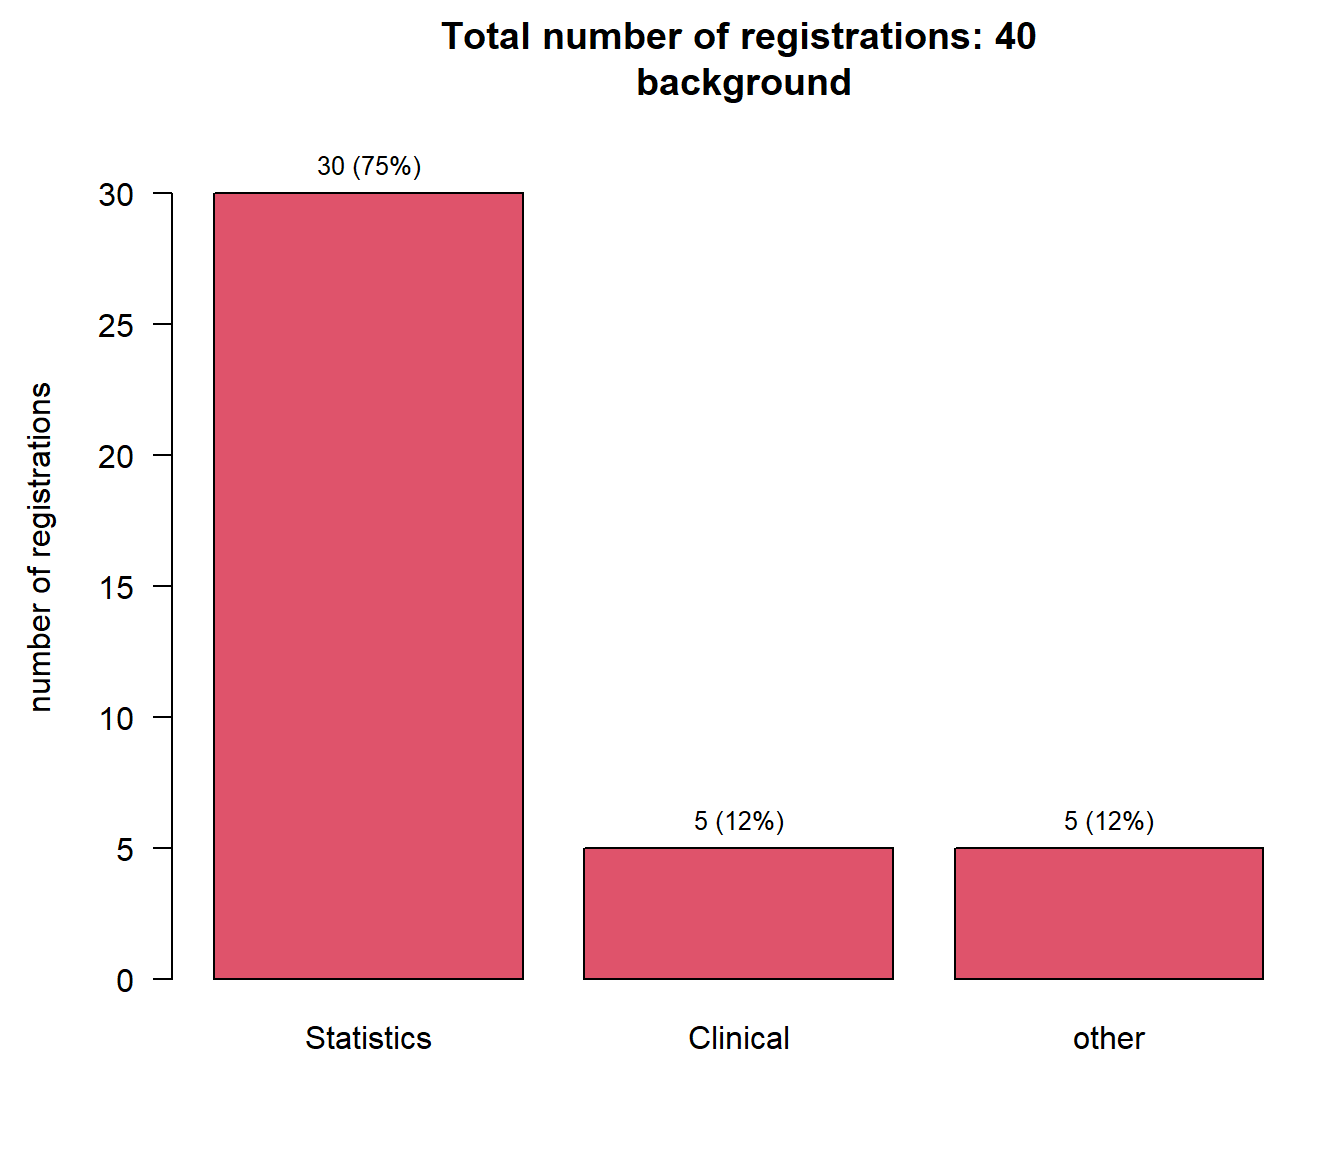
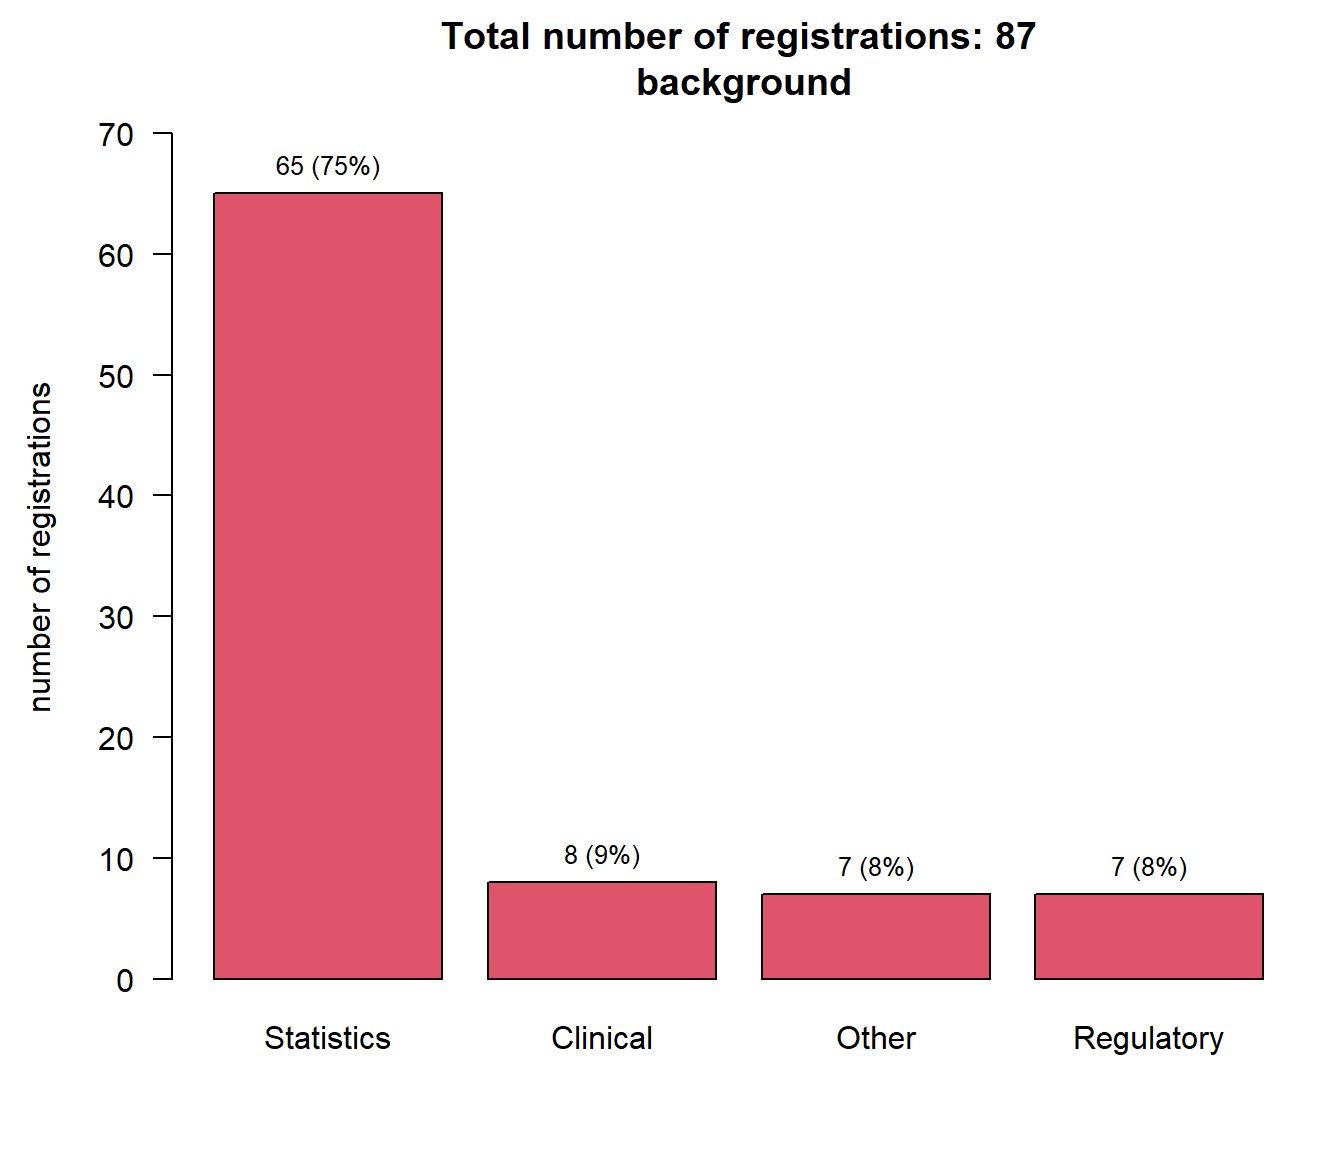
update

diff --git a/docs/data/2026/analysis2026.html b/docs/data/2026/analysis2026.html
@@ -230,7 +230,7 @@ ul.task-list li input[type="checkbox"] {
 
 <section id="data-status" class="level1">
 <h1>Data status</h1>
-<p>Data as of 2026-03-06 at 14:48:24.</p>
+<p>Data as of 2026-03-18 at 14:54:17.</p>
 </section>
 <section id="registrations" class="level1 tabset tabset-fade tabset-pills">
 <h1 class="tabset tabset-fade tabset-pills">Registrations</h1>
@@ -271,16 +271,15 @@ ul.task-list li input[type="checkbox"] {
 </div>
 </div>
 <div id="tabset-1-4" class="tab-pane" role="tabpanel" aria-labelledby="tabset-1-4-tab">
-<!-- ```{r, echo = FALSE, fig.cap = "", fig.align = "center", fig.width = 7, fig.height = 10} -->
-<!-- t2 <- with(reg2, filter(reg2, type %in% "Regulator")) -->
-
-<!-- t2 <- with(t2, table(country2)) -->
-<!-- t2 <- prepTable(t2 = t2, cut = 1) -->
-<!-- par(las = 2, mar = c(21, 4.5, 3, 1)) -->
-<!-- ylim <- c(0, 1.4 * max(t2)) -->
-<!-- xx <- barplot(t2, ylab = "number of registrations", main = paste("Total number of registrations: ", dim(reg2)[1], "\n institution", sep = ""), col = 4, ylim = ylim) -->
-<!-- text(x = xx, y = t2, label = paste(t2, " (", round(100 * t2 / sum(t2)), "%)", sep = ""), pos = 3, offset = 2, cex = 0.8, col = 1, srt = 90) -->
-<!-- ``` -->
+<div class="cell" data-layout-align="center">
+<div class="cell-output-display">
+<div class="quarto-figure quarto-figure-center">
+<figure class="figure">
+<p><img src="analysis2026_files/figure-html/unnamed-chunk-4-1.png" class="img-fluid figure-img" width="672"></p>
+</figure>
+</div>
+</div>
+</div>
 <!-- ```{r, echo = FALSE, eval = TRUE, fig.cap = "", fig.align = "center", fig.width = 7, fig.height = 6} -->
 
 <!-- dat <- with(filter(reg2, type %in% c("HTA", "Regulator")[2]), table(inst2, mode)) -->
@@ -312,7 +311,7 @@ ul.task-list li input[type="checkbox"] {
 <div class="cell-output-display">
 <div class="quarto-figure quarto-figure-center">
 <figure class="figure">
-<p><img src="analysis2026_files/figure-html/unnamed-chunk-4-1.png" class="img-fluid figure-img" width="672"></p>
+<p><img src="analysis2026_files/figure-html/unnamed-chunk-5-1.png" class="img-fluid figure-img" width="672"></p>
 </figure>
 </div>
 </div>
@@ -323,7 +322,7 @@ ul.task-list li input[type="checkbox"] {
 <div class="cell-output-display">
 <div class="quarto-figure quarto-figure-center">
 <figure class="figure">
-<p><img src="analysis2026_files/figure-html/unnamed-chunk-5-1.png" class="img-fluid figure-img" width="1440"></p>
+<p><img src="analysis2026_files/figure-html/unnamed-chunk-6-1.png" class="img-fluid figure-img" width="1440"></p>
 </figure>
 </div>
 </div>
@@ -334,7 +333,7 @@ ul.task-list li input[type="checkbox"] {
 <div class="cell-output-display">
 <div class="quarto-figure quarto-figure-center">
 <figure class="figure">
-<p><img src="analysis2026_files/figure-html/unnamed-chunk-6-1.png" class="img-fluid figure-img" width="672"></p>
+<p><img src="analysis2026_files/figure-html/unnamed-chunk-7-1.png" class="img-fluid figure-img" width="672"></p>
 </figure>
 </div>
 </div>
@@ -345,7 +344,7 @@ ul.task-list li input[type="checkbox"] {
 <div class="cell-output-display">
 <div class="quarto-figure quarto-figure-center">
 <figure class="figure">
-<p><img src="analysis2026_files/figure-html/unnamed-chunk-7-1.png" class="img-fluid figure-img" width="672"></p>
+<p><img src="analysis2026_files/figure-html/unnamed-chunk-8-1.png" class="img-fluid figure-img" width="672"></p>
 </figure>
 </div>
 </div>
@@ -360,7 +359,7 @@ ul.task-list li input[type="checkbox"] {
 <div class="cell-output-display">
 <div class="quarto-figure quarto-figure-center">
 <figure class="figure">
-<p><img src="analysis2026_files/figure-html/unnamed-chunk-8-1.png" class="img-fluid figure-img" width="672"></p>
+<p><img src="analysis2026_files/figure-html/unnamed-chunk-9-1.png" class="img-fluid figure-img" width="672"></p>
 </figure>
 </div>
 </div>
@@ -378,21 +377,53 @@ ul.task-list li input[type="checkbox"] {
 <tbody>
 <tr class="odd">
 <td style="text-align: left;">Company</td>
+<td style="text-align: left;">Roche</td>
 <td style="text-align: left;">Novartis</td>
 </tr>
 <tr class="even">
 <td style="text-align: left;">Pre-booked F2F seats</td>
-<td style="text-align: left;">30</td>
+<td style="text-align: left;">35</td>
+<td style="text-align: left;">35</td>
 </tr>
 </tbody>
 </table>
 </div>
-<!-- ```{r, echo = FALSE, results = 'asis', message = FALSE, eval = TRUE} -->
-<!-- library(arsenal) -->
-
-<!-- tab1 <- tableby(inst2 ~ mode, total = TRUE, test = FALSE, data = filter(reg2, inst2 %in% f2fblock)) -->
-<!-- summary(tab1) -->
-<!-- ``` -->
+<table class="table">
+<colgroup>
+<col style="width: 48%">
+<col style="width: 18%">
+<col style="width: 16%">
+<col style="width: 16%">
+</colgroup>
+<thead>
+<tr class="header">
+<th style="text-align: left;"></th>
+<th style="text-align: center;">Novartis (N=4)</th>
+<th style="text-align: center;">Roche (N=29)</th>
+<th style="text-align: center;">Total (N=33)</th>
+</tr>
+</thead>
+<tbody>
+<tr class="odd">
+<td style="text-align: left;"><strong>mode</strong></td>
+<td style="text-align: center;"></td>
+<td style="text-align: center;"></td>
+<td style="text-align: center;"></td>
+</tr>
+<tr class="even">
+<td style="text-align: left;">&nbsp;&nbsp;&nbsp;Face-to-face (300 Euro)</td>
+<td style="text-align: center;">0 (0.0%)</td>
+<td style="text-align: center;">27 (93.1%)</td>
+<td style="text-align: center;">27 (81.8%)</td>
+</tr>
+<tr class="odd">
+<td style="text-align: left;">&nbsp;&nbsp;&nbsp;Virtual (100 Euro)</td>
+<td style="text-align: center;">4 (100.0%)</td>
+<td style="text-align: center;">2 (6.9%)</td>
+<td style="text-align: center;">6 (18.2%)</td>
+</tr>
+</tbody>
+</table>
 </div>
 <div id="tabset-2-2" class="tab-pane" role="tabpanel" aria-labelledby="tabset-2-2-tab">
 <table class="table">
@@ -405,9 +436,9 @@ ul.task-list li input[type="checkbox"] {
 <thead>
 <tr class="header">
 <th style="text-align: left;"></th>
-<th style="text-align: center;">Bayer (N=1)</th>
-<th style="text-align: center;">Merck KGaA (N=17)</th>
-<th style="text-align: center;">Total (N=18)</th>
+<th style="text-align: center;">Bayer (N=3)</th>
+<th style="text-align: center;">Merck KGaA (N=33)</th>
+<th style="text-align: center;">Total (N=36)</th>
 </tr>
 </thead>
 <tbody>
@@ -419,15 +450,15 @@ ul.task-list li input[type="checkbox"] {
 </tr>
 <tr class="even">
 <td style="text-align: left;">&nbsp;&nbsp;&nbsp;Face-to-face (300 Euro)</td>
-<td style="text-align: center;">1 (100.0%)</td>
-<td style="text-align: center;">1 (5.9%)</td>
-<td style="text-align: center;">2 (11.1%)</td>
+<td style="text-align: center;">3 (100.0%)</td>
+<td style="text-align: center;">1 (3.0%)</td>
+<td style="text-align: center;">4 (11.1%)</td>
 </tr>
 <tr class="odd">
 <td style="text-align: left;">&nbsp;&nbsp;&nbsp;Virtual (100 Euro)</td>
 <td style="text-align: center;">0 (0.0%)</td>
-<td style="text-align: center;">16 (94.1%)</td>
-<td style="text-align: center;">16 (88.9%)</td>
+<td style="text-align: center;">32 (97.0%)</td>
+<td style="text-align: center;">32 (88.9%)</td>
 </tr>
 </tbody>
 </table>
@@ -446,7 +477,7 @@ ul.task-list li input[type="checkbox"] {
 <div class="cell-output-display">
 <div class="quarto-figure quarto-figure-center">
 <figure class="figure">
-<p><img src="analysis2026_files/figure-html/unnamed-chunk-11-1.png" class="img-fluid figure-img" width="672"></p>
+<p><img src="analysis2026_files/figure-html/unnamed-chunk-13-1.png" class="img-fluid figure-img" width="672"></p>
 </figure>
 </div>
 </div>
@@ -457,7 +488,7 @@ ul.task-list li input[type="checkbox"] {
 <div class="cell-output-display">
 <div class="quarto-figure quarto-figure-center">
 <figure class="figure">
-<p><img src="analysis2026_files/figure-html/unnamed-chunk-12-1.png" class="img-fluid figure-img" width="672"></p>
+<p><img src="analysis2026_files/figure-html/unnamed-chunk-14-1.png" class="img-fluid figure-img" width="672"></p>
 </figure>
 </div>
 </div>
@@ -468,7 +499,7 @@ ul.task-list li input[type="checkbox"] {
 <div class="cell-output-display">
 <div class="quarto-figure quarto-figure-center">
 <figure class="figure">
-<p><img src="analysis2026_files/figure-html/unnamed-chunk-13-1.png" class="img-fluid figure-img" width="672"></p>
+<p><img src="analysis2026_files/figure-html/unnamed-chunk-15-1.png" class="img-fluid figure-img" width="672"></p>
 </figure>
 </div>
 </div>
@@ -479,7 +510,7 @@ ul.task-list li input[type="checkbox"] {
 <div class="cell-output-display">
 <div class="quarto-figure quarto-figure-center">
 <figure class="figure">
-<p><img src="analysis2026_files/figure-html/unnamed-chunk-14-1.png" class="img-fluid figure-img" width="672"></p>
+<p><img src="analysis2026_files/figure-html/unnamed-chunk-16-1.png" class="img-fluid figure-img" width="672"></p>
 </figure>
 </div>
 </div>
@@ -498,8 +529,8 @@ ul.task-list li input[type="checkbox"] {
 <thead>
 <tr class="header">
 <th style="text-align: left;"></th>
-<th style="text-align: center;">Roche (N=17)</th>
-<th style="text-align: center;">Total (N=17)</th>
+<th style="text-align: center;">Roche (N=27)</th>
+<th style="text-align: center;">Total (N=27)</th>
 </tr>
 </thead>
 <tbody>
@@ -510,13 +541,13 @@ ul.task-list li input[type="checkbox"] {
 </tr>
 <tr class="even">
 <td style="text-align: left;">&nbsp;&nbsp;&nbsp;show</td>
-<td style="text-align: center;">16 (94.1%)</td>
-<td style="text-align: center;">16 (94.1%)</td>
+<td style="text-align: center;">26 (96.3%)</td>
+<td style="text-align: center;">26 (96.3%)</td>
 </tr>
 <tr class="odd">
 <td style="text-align: left;">&nbsp;&nbsp;&nbsp;no show</td>
-<td style="text-align: center;">1 (5.9%)</td>
-<td style="text-align: center;">1 (5.9%)</td>
+<td style="text-align: center;">1 (3.7%)</td>
+<td style="text-align: center;">1 (3.7%)</td>
 </tr>
 </tbody>
 </table>

diff --git a/docs/data/2025/analysis2025.html b/docs/data/2025/analysis2025.html
@@ -230,7 +230,7 @@ ul.task-list li input[type="checkbox"] {
 
 <section id="data-status" class="level1">
 <h1>Data status</h1>
-<p>Data as of 2026-03-06 at 14:47:56.</p>
+<p>Data as of 2026-03-18 at 14:54:03.</p>
 </section>
 <section id="registrations" class="level1 tabset tabset-fade tabset-pills">
 <h1 class="tabset tabset-fade tabset-pills">Registrations</h1>

diff --git a/docs/data/2024/analysis2024.html b/docs/data/2024/analysis2024.html
@@ -238,7 +238,7 @@ ul.task-list li input[type="checkbox"] {
 
 <section id="data-status" class="level1">
 <h1>Data status</h1>
-<p>Data as of 2026-03-06 at 14:47:35.</p>
+<p>Data as of 2026-03-18 at 14:53:51.</p>
 </section>
 <section id="registrations-by-type-of-institution" class="level1">
 <h1>Registrations by type of institution</h1>
